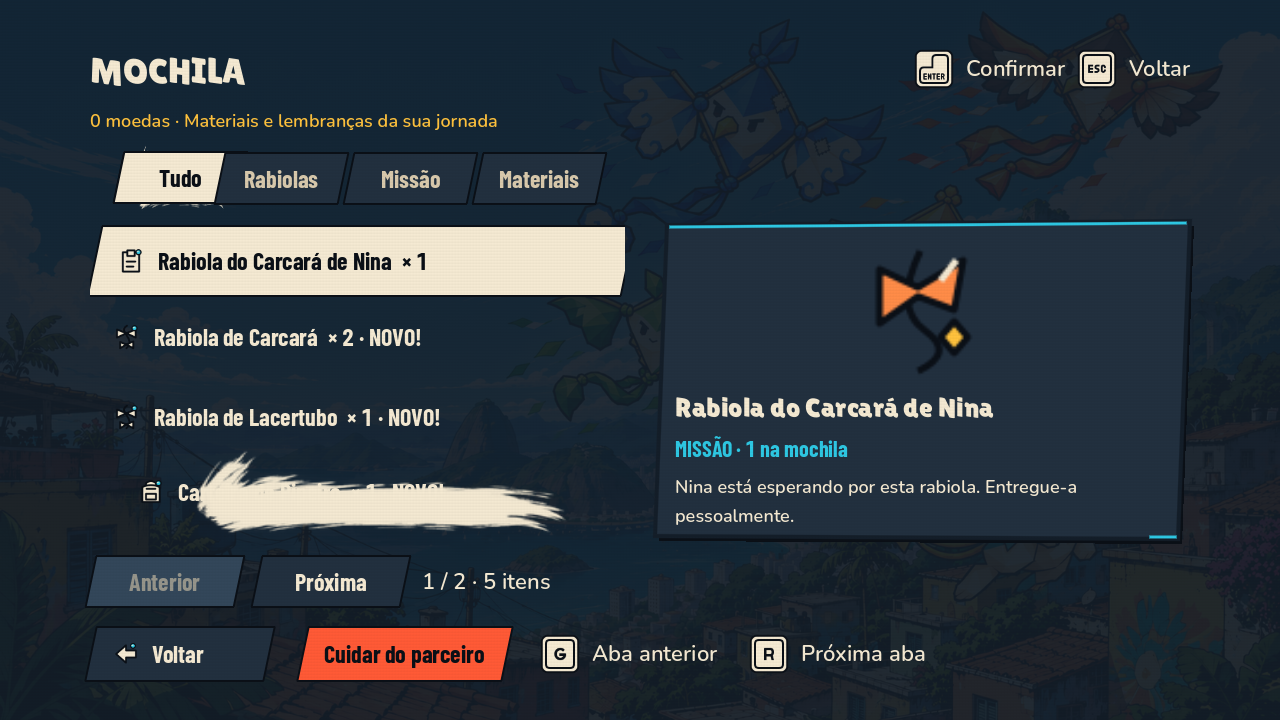
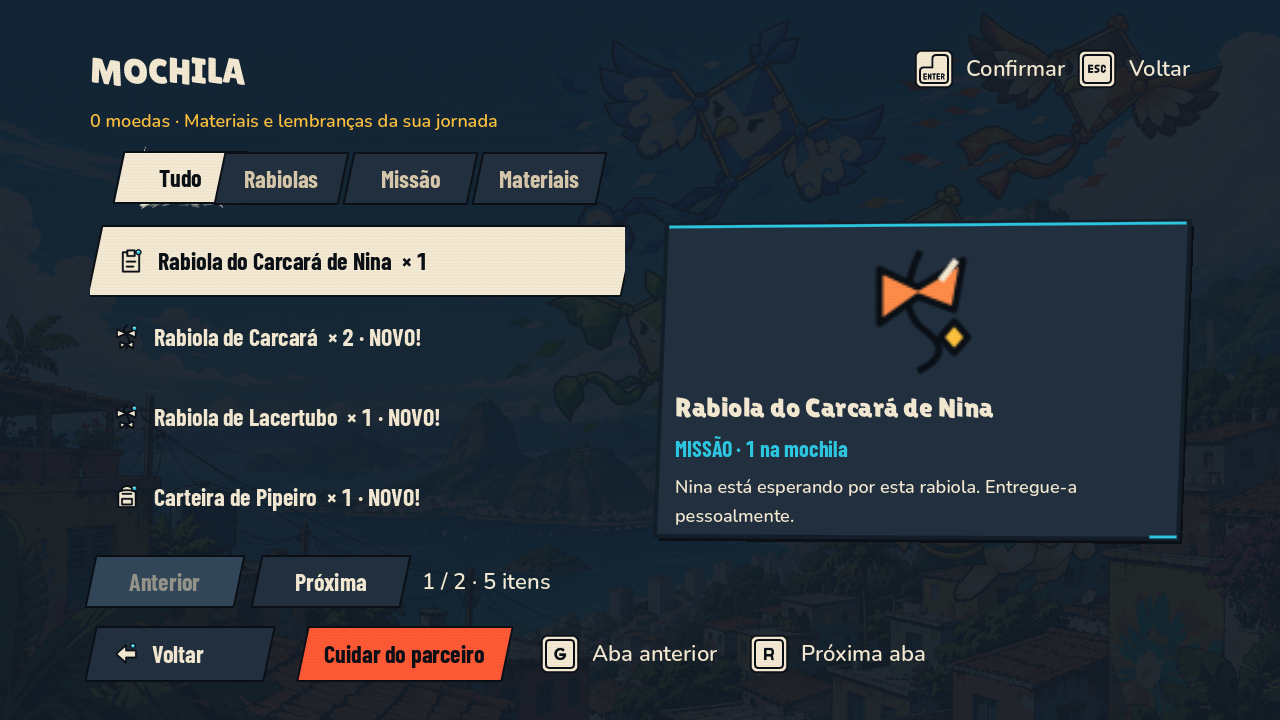
Evitar hover incidental nas capturas da auditoria

Changed region(s): [[0.0938, 0.6417, 0.4375, 0.7333]]

diff --git a/documentation/qa/hud-margin-integration-v1/README.md b/documentation/qa/hud-margin-integration-v1/README.md
@@ -13,7 +13,7 @@ Antes da integração, o trabalho local foi preservado em `cbc9c146` (atlas de K
 
 - Removidas três sobrescritas que voltavam o espaçamento novo de 32 px para 20/24 px em configurações e controles.
 - A ferramenta de captura prepara documentos nas cópias visuais em memória e abre o parque sincronamente. Ela continua sem criar/gravar saves.
-- Capturas estáticas ignoram input da janela, para que a posição do cursor no desktop não abra um tooltip incidental sobre a tela auditada. `--reduced-motion` é opcional na ferramenta e não altera as preferências persistidas do jogador.
+- Capturas estáticas ignoram input da janela, para que a posição do cursor no desktop não abra um tooltip ou efeito de hover incidental sobre a tela auditada. A decoração Recorte também respeita essa propriedade do viewport. `--reduced-motion` é opcional na ferramenta e não altera as preferências persistidas do jogador.
 - Acrescentadas duas verificações de validade do quarto após movimentos assíncronos da abertura: trocar/fechar a cena durante esses movimentos não acessa um quarto já liberado.
 
 ## Verificações executadas
@@ -31,6 +31,8 @@ Saves e preferências isolados em `tmp/playtest-humanlike/appdata`.
 | `campaign_checks.gd` | 206 verificações, zero falhas |
 
 Total: **672 verificações aprovadas**. As duas suítes de HUD usaram o modo rápido (1280×720); não se trata de reauditoria de todas as resoluções. As execuções headless dessas suítes que dependem de carregamento/encenação foram interrompidas e substituídas pelo renderer nativo; não foram contadas no total. Alguns runners mantêm avisos de recursos em uso ao finalizar.
+
+Verificação adicional `recorte_theme_checks.gd`: 197 de 198 verificações aprovadas. A falha é a regra estática que proíbe `Theme.new(` em `pier_play.gd`, já presente no commit local anterior ao merge (`cbc9c146`). Essa cena de demonstração do cais não foi alterada nesta integração. O resultado se repete com e sem renderer; não é registrado como sucesso da suíte.
 
 Capturas nativas em 1280×720, inspecionadas:
 
